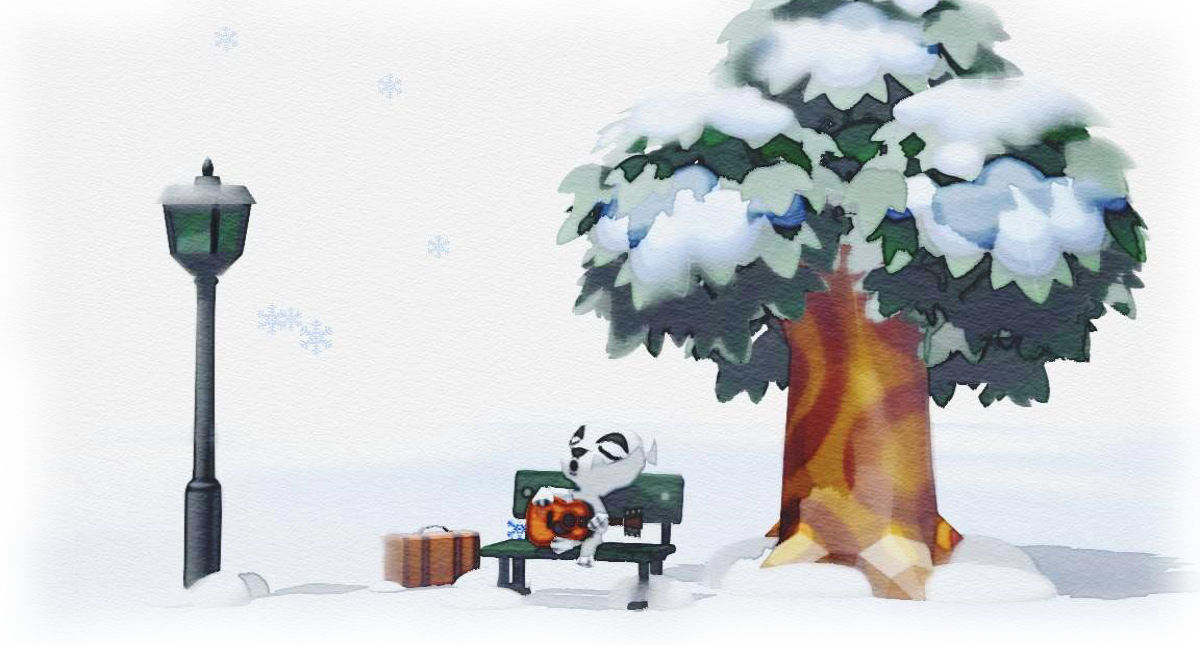
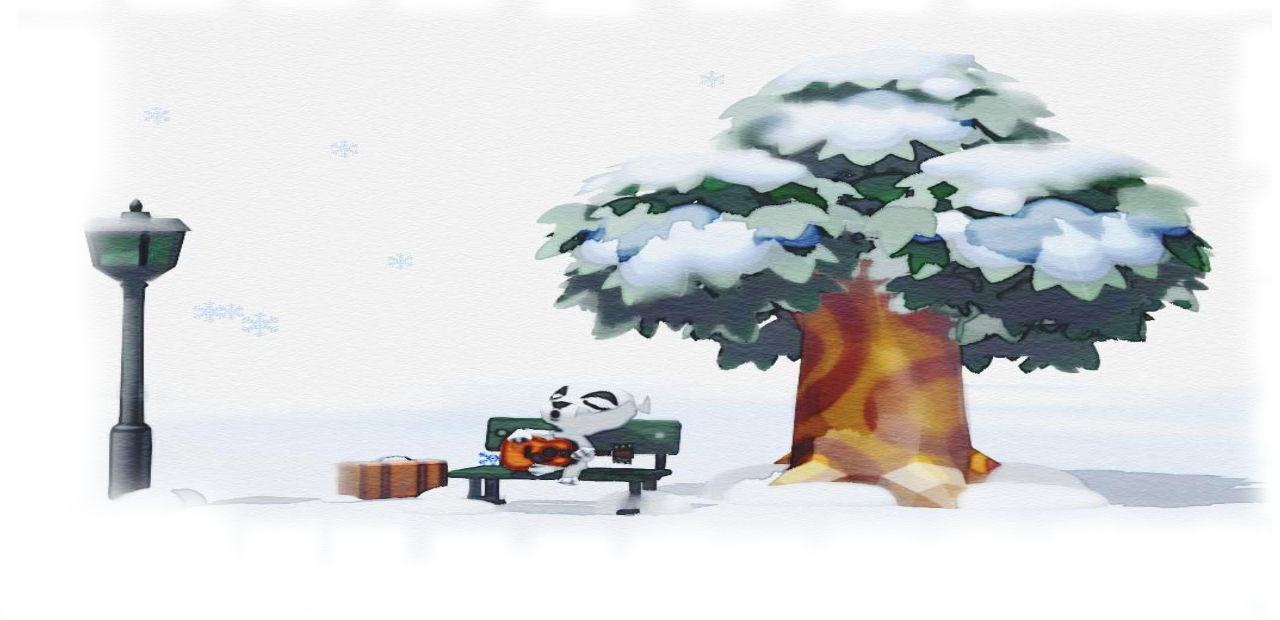
Began adding background color changes dependent on song choice
Began adding background color changes dependent on song choice in SearchSong.js. Added functionality for Yellow, lightblue, sepia, pink to white, magenta, black, and white backgrounds

diff --git a/src/SearchSong.js b/src/SearchSong.js
@@ -20,18 +20,35 @@ function playSong(response){
 
 
 function getDefaultSong(event){
-    //let body = document.querySelector("body");
     song = 88;
     let ApiURL = `https://acnhapi.com/v1a/songs/${song}`;
 axios.get(ApiURL).then(playSong);
 }
 function randomize() {
+    let body = document.querySelector("body");
     let randomNumber = Math.floor(Math.random() * 95);
-    console.log(randomNumber);
 if (randomNumber > 96 && randomNumber < 97){randomNumber = 88;}
 else if(randomNumber > 97 && randomNumber < 98){randomNumber = 43;}
 else if(randomNumber > 98 && randomNumber < 99){randomNumber = 33;}
 else if(randomNumber > 99 && randomNumber < 100){randomNumber = 45;}
+else if (randomNumber === 1 || randomNumber ===  10 || randomNumber ===  11 || randomNumber ===  15 ||
+     randomNumber === 47 || randomNumber === 49 || randomNumber === 63 || randomNumber === 84)
+     {body.classList.add("bodyYellow");}
+else if (randomNumber === 2 || randomNumber === 5 || randomNumber === 9 || randomNumber ===  12 || randomNumber === 19
+    || randomNumber === 40 || randomNumber === 43 || randomNumber === 59 || randomNumber === 77 || randomNumber === 90 || randomNumber === 92 || randomNumber === 95)
+     {body.classList.add("bodyLtBlue");}
+else if (randomNumber === 3 || randomNumber === 23 || randomNumber ===25 || randomNumber === 26 ||randomNumber === 38 || randomNumber === 44 || randomNumber === 48 
+        || randomNumber === 69 || randomNumber === 74 || randomNumber === 79 || randomNumber === 85)
+        {body.classList.add("bodySepia");}
+else if (randomNumber === 4 || randomNumber === 6 || randomNumber === 30 || randomNumber === 39 || randomNumber === 73 || randomNumber === 87)
+         {body.classList.add("bodyPinktoWhite");}
+else if (randomNumber === 7 || randomNumber === 37) 
+         {body.classList.add("bodyMagenta");}
+else if (randomNumber === 8 || randomNumber === 29 || randomNumber === 58 || randomNumber === 66 || randomNumber === 81 || randomNumber === 86 || randomNumber === 91 || randomNumber === 93)
+{body.classList.add("bodyBlack");}
+else if (randomNumber === 13 || randomNumber === 14 || randomNumber === 16 || randomNumber === 70)
+{body.classList.add("bodyWhite");}
+    
     const ApiURL = `https://acnhapi.com/v1a/songs/${randomNumber}`;
     axios.get(ApiURL).then(playSong);
     };

diff --git a/src/App.css b/src/App.css
@@ -1,6 +1,5 @@
 
 body {  background-image: url(media/kkclear.png);
-  background-color: #ffffff;
   background-repeat: no-repeat;
   background-attachment: fixed;
   background-position-x: -150px;
@@ -11,14 +10,25 @@ body {  background-image: url(media/kkclear.png);
 }
 
 header {background-image: url(media/kk\ header.jpg);
-  background-position-y: 350px;
+  background-repeat: no-repeat;
+  background-position-y: -220px;
+  background-position-x: -100px;
   min-height: 300px;
 min-width: 1700px;}
 
   header h1 {font-size: 50px;}
   
 .app {  font-family: 'Short Stack', cursive;
-  text-align: center;}
+  text-align: center;
+max-width: 1400px;}
+
+.bodyWhite {  background-image: url(media/kkclear.png);
+  background-color: #ffffff;
+  background-repeat: no-repeat;
+  background-attachment: fixed;
+  background-position-x: -150px;
+  background-position-y: bottom;
+}
 
 .bodyLtBlue {background-image: url(media/kkclear.png);
   background-image: url(media/kkclear.png), linear-gradient(41deg, rgba(255,255,255,1) 0%, rgba(191,232,245,1) 50%, rgba(151,238,208,1) 100%);
@@ -117,6 +127,14 @@ background-color: #CEAA75;}
         background-position-x: -150px;
         background-position-y: bottom;
         background-color: #562150;
+      }
+
+      .bodyCerulean {background-image: url(media/kkclear.png);
+        background-repeat: no-repeat;
+        background-attachment: fixed;
+        background-position-x: -150px;
+        background-position-y: bottom;
+        background-color: #149EBE;
       }
 .Songinfo img {max-height: 300px;
 max-width: 300px;
